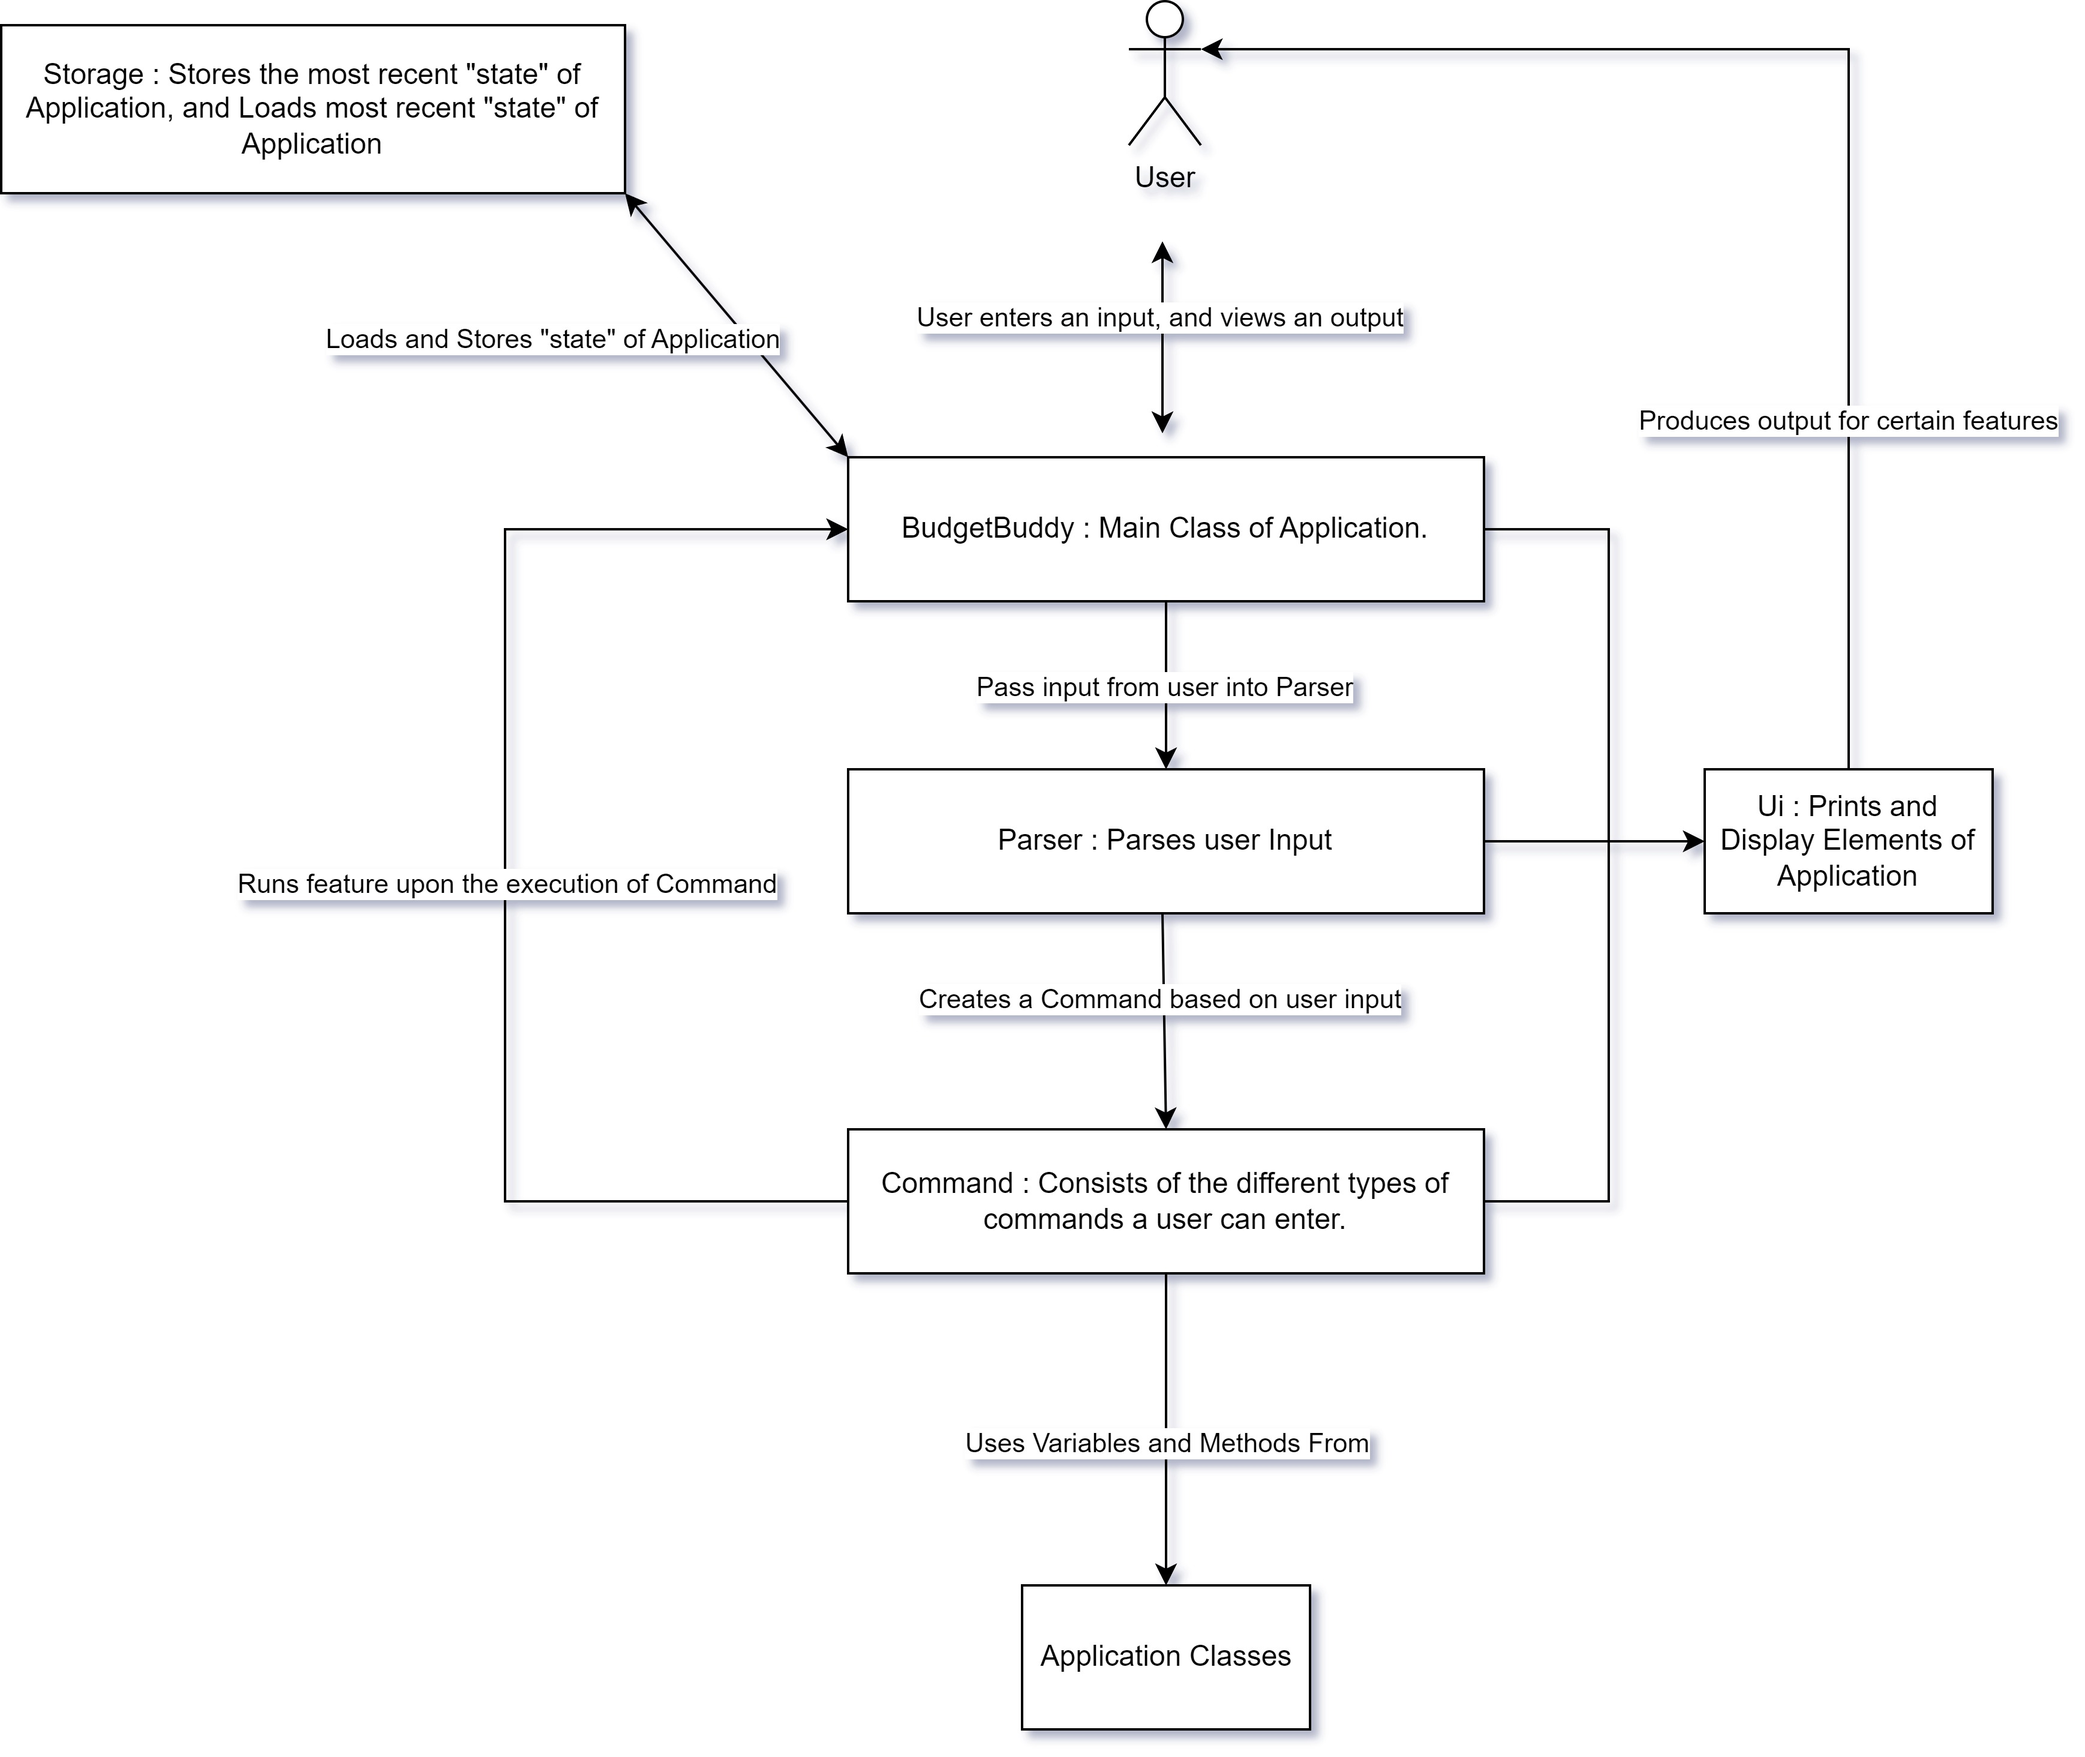
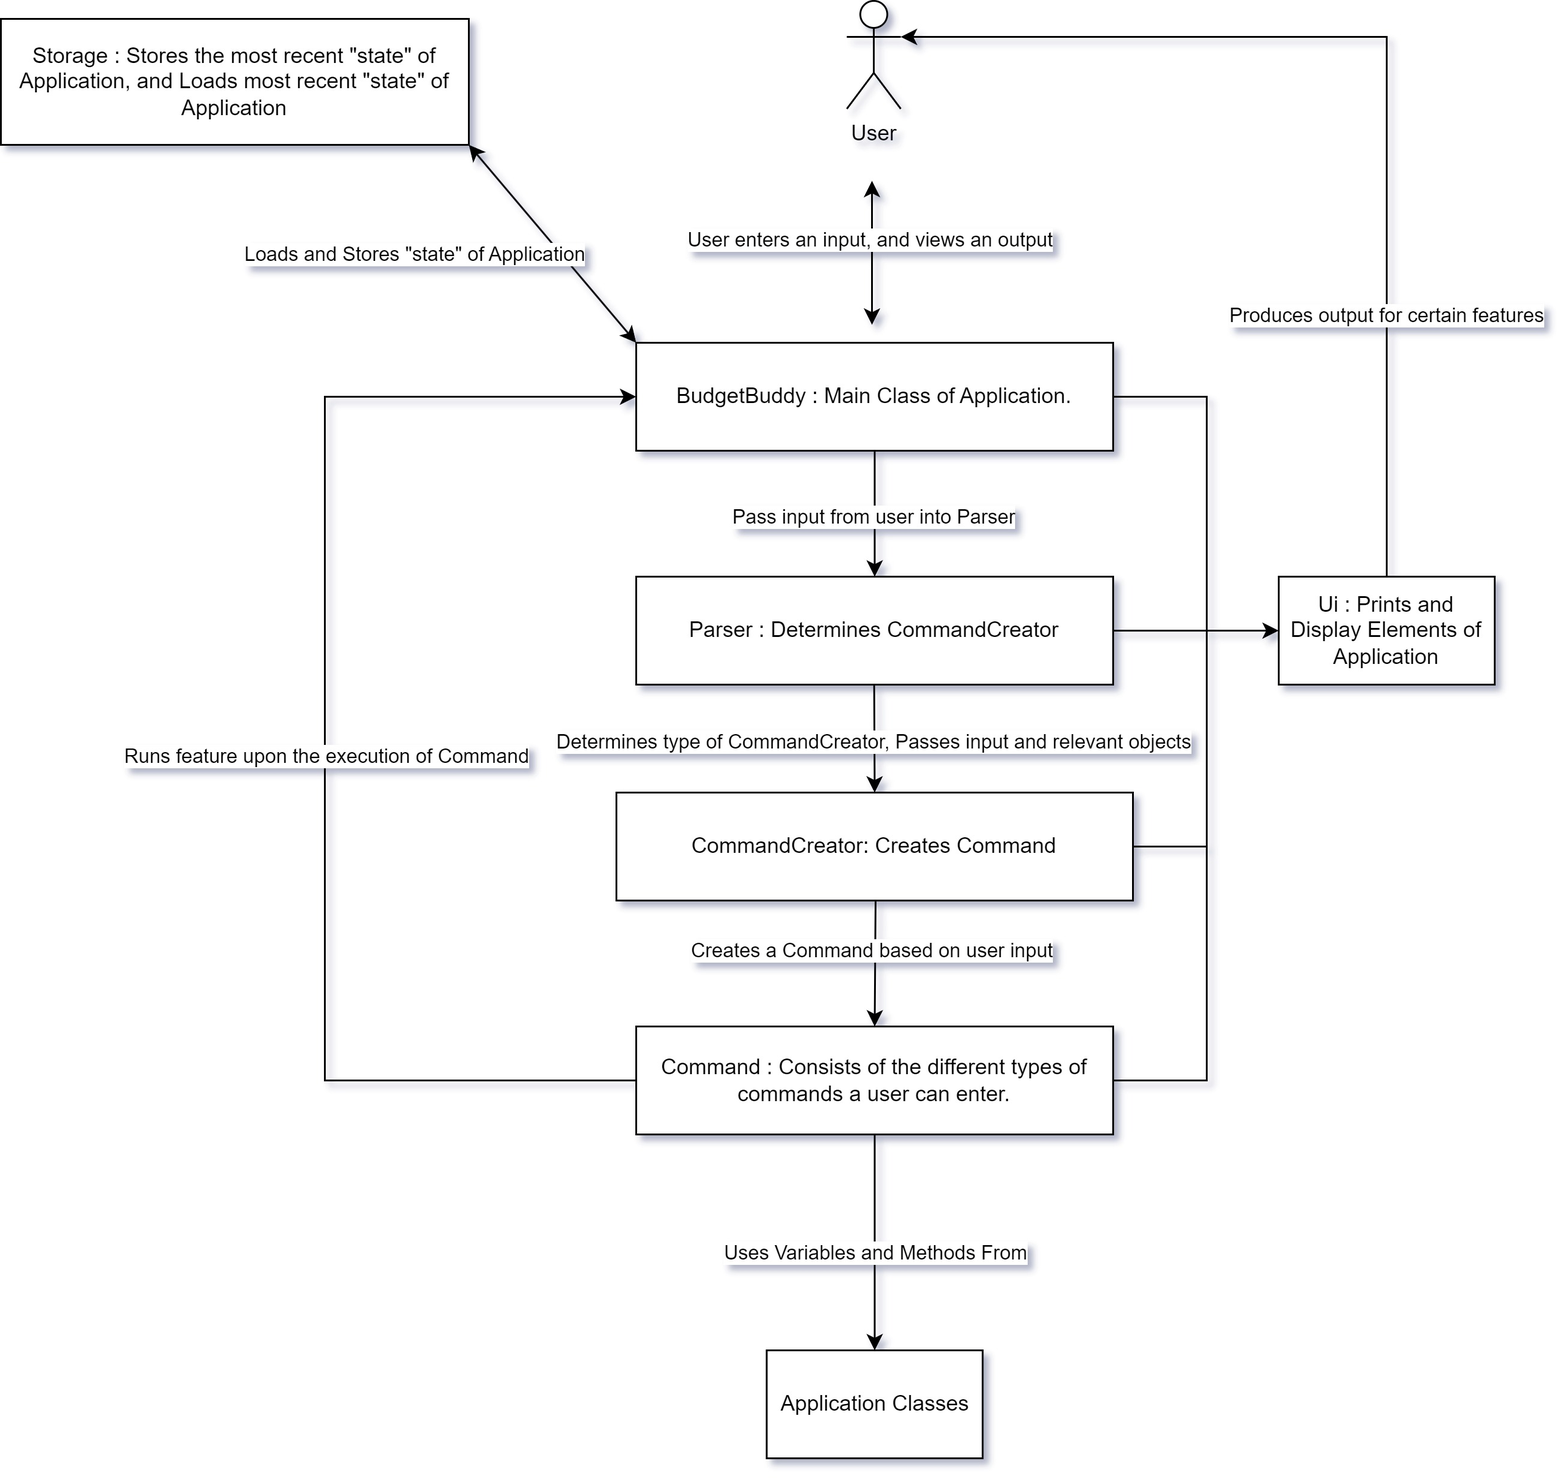
Update DG to include details for classes

diff --git a/docs/DeveloperGuide.md b/docs/DeveloperGuide.md
@@ -25,21 +25,33 @@ The following diagram provides a rough overview of how BudgetBuddy is built
 ![Diagram of overview of BudgetBuddy](diagrams/Introduction.jpg)
 
 `BudgetBuddy` is the main class of the application and directly interacts with the user, passing along the input
-into the Parser. The `Parser` creates a `Command` object depending on the user's input, which will be executed in
-`BudgetBuddy`. The `Command` object utilizes methods and the class present in the `Application Classes`, which will 
-be explained in more detail in the following sections.
+into the Parser. The `Parser` creates a `CommandCreator` object depending on the user's input. The `CommandCreator`
+object then creates the `Command` object. This `Command` will be executed in `BudgetBuddy`. The `Command` object 
+utilizes methods and the class present in the `Application Classes`, which will be explained in more 
+detail in the following sections.
 
 #### 3.2 Parser Class
-Make Class Diagram + Explanation
+The main functionality of the Parser Class is to determine the type of `CommandCreator` object to initialize, and
+return the created `Command` object created by the `CommandCreator` back to `BudgetBuddy`
 
 #### 3.3 Ui Class
-Make Class Diagram + Explanation
+The Ui Class is used to print certain elements to the CLI. In particular, it consists of the Welcome Message,
+Goodbye Message, Divider Lines and all the corresponding commands' command format.
+
+#### 3.5 CommandCreator Class
+The CommandCreator class contains multiple subclasses, which corresponding to a specific function of the application.
+Within the CommandCreator classes, it handles making sense of the user input, obtaining the relevant parameters to be
+used in the created `Command` class.
 
 #### 3.4 Command Class
-Make Class Diagram + Explanation
+The Command class, similar to the CommandCreator class, contains multiple subclasses, all corresponding to a specific
+function of the application. In this case, each CommandCreator class would be associated to their relevant Commands.
+Here is a table of all CommandCreator class and the Commands that they can create.
+
+"Insert Table Here"
 
 #### 3.5 Storage Class
-Make Class Diagram + Explanation
+The Storage Class handles the loading and saving of the Expenses and Savings in BudgetBuddy.
 
 ### 3.6 Application Classes
 The classes present in this group of `Application Classes` refers to certain elements which serves a purpose more
@@ -47,20 +59,41 @@ towards the `user` instead of application itself. They represent data of the use
 including expenses and savings, along with mechanisms for organizing and managing this data in meaningful ways.
 
 ##### 3.6.1 Transaction
-Explain what it does
+This is an abstract class, which is the superclass for both the Expense and Saving Classes. It contains common variables
+such as Currency, Category and Amount.
 
 ##### 3.6.2 Expense
-Explain what it does
+This class holds details regarding an expense a user has. Within this class, it has 4 class-level variables :
+`String category`, `LocalDate dateAdded` , `String description` and `Double amount`. The variables and their relevance
+are as follows : 
+
 
 ##### 3.6.3 ExpenseList
-Explain what it does
+This class represents a list of expenses. Within this class, it has 2 class-level variables :
+`ArrayList<Expense> expenses` and `ArrayList<String> categories`, The variables and there relevance are as follows :
+
+This class also contains the methods to handle any user interactions with the list of expenses. The methods and a 
+brief explanation on their functionality is as follows :
 
 ##### 3.6.4 Saving
-Explain what it does
+This class holds details regarding a saving a user has. Within this class, it has 3 class-level variables :
+`String category`, `LocalDate dateAdded`, `Double amount`. The variables and their relevance
+are as follows :
 
 ##### 3.6.5 SavingList
+This class represents a list of savings. Within this class, it has 2 class-level variables :
+`ArrayList<Saving> expenses` and `ArrayList<String> categories`, The variables and there relevance are as follows :
 
-### 4. Implementation
+This class also contains the methods to handle any user interactions with the list of savings. The methods and a
+brief explanation on their functionality is as follows :
+
+##### 3.6.6 RecurringExpenseList
+Explain what it does
+
+##### 3.6.7 RecurringExpensesList
+Explain what it does
+
+## 4. Implementation
 
 ## 5. Product scope
 
